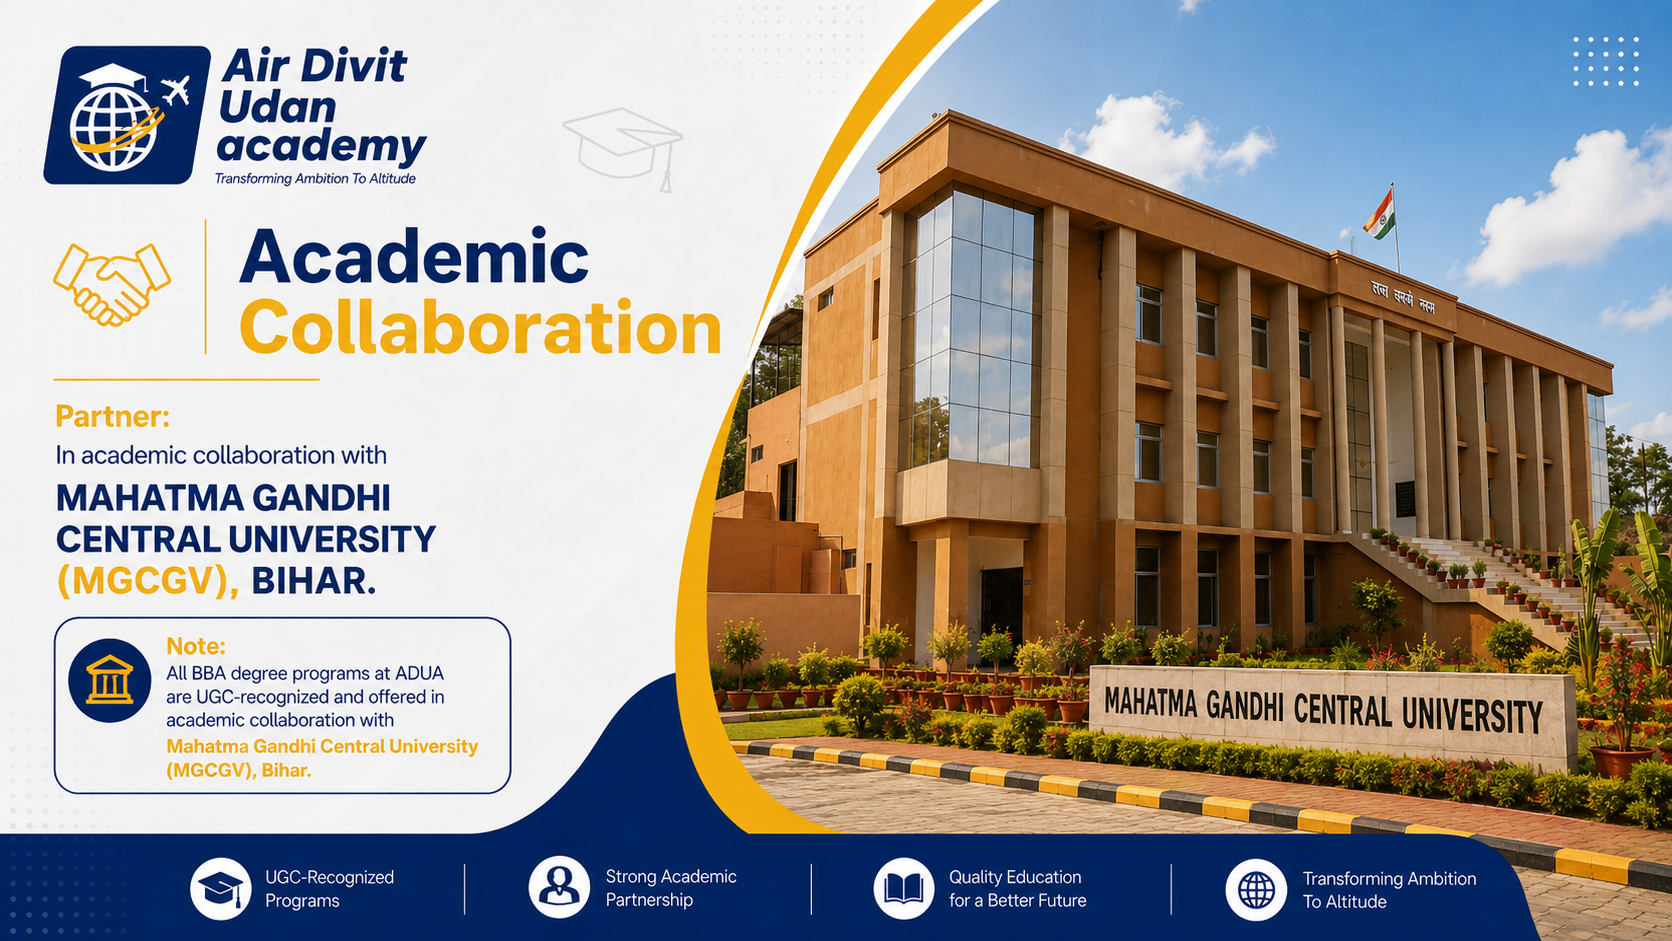
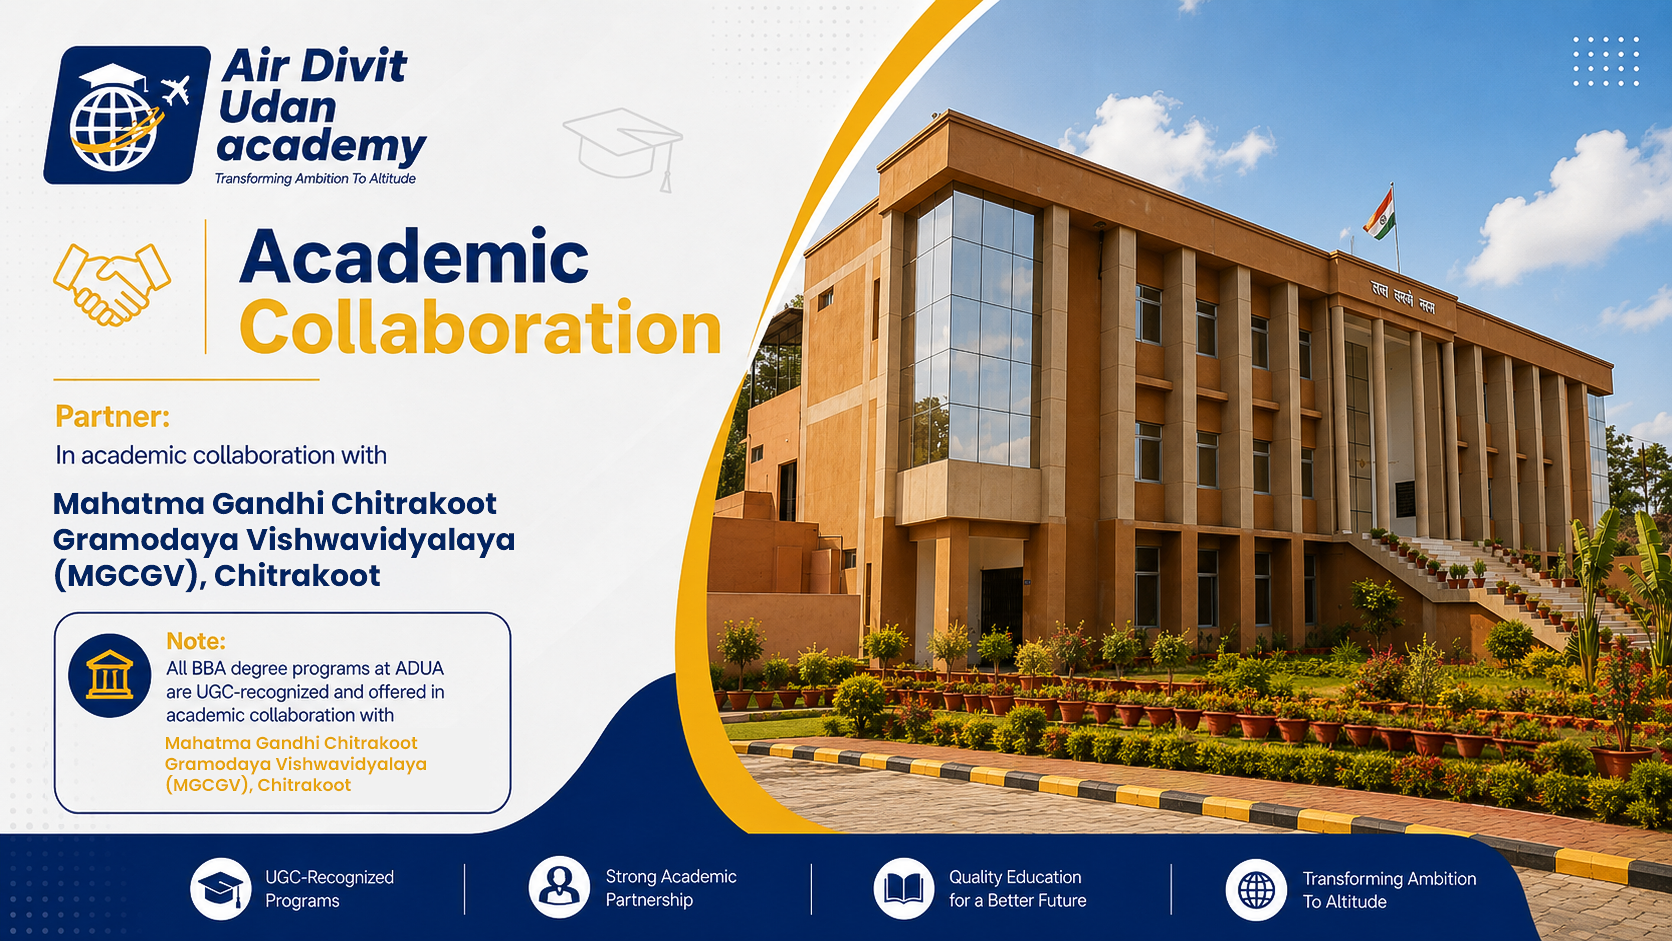
Curriculum updates

Changed region(s): [[0.0311, 0.4931, 0.311, 0.8629], [0.622, 0.678, 0.9641, 0.8321]]

diff --git a/index.html b/index.html
@@ -221,12 +221,12 @@
                 </header>
                 <div class="d-flex flex-row justify-content-between align-items-center gap-4">
                     <div class="curriculum__meta">
-                        <div class="curriculum__chip">
+                        <!-- <div class="curriculum__chip">
                             <div class="curriculum__chip-label">Standard Fee</div>
                             <div class="curriculum__chip-value">₹101,300 <span
                                     style="font-size:12px;font-weight:600;color:var(--color-text-muted)">/ Annual</span>
                             </div>
-                        </div>
+                        </div> -->
                         <div class="curriculum__chip">
                             <div class="curriculum__chip-label">Accreditation</div>
                             <div class="curriculum__chip-value curriculum__chip-value--sm">UGC-Recognized Degrees</div>
@@ -253,7 +253,6 @@
                             <div class="program-card__image-wrap">
                                 <img class="program-card__image" src="./assets/BBA (Airport Management).webp"
                                     alt="BBA Airport Management" />
-                                <span class="program-card__nsqf">NSQF 4 + 4</span>
                             </div>
                             <div class="program-card__body">
                                 <h3 class="program-card__title">BBA (Airport Management)</h3>
@@ -262,10 +261,6 @@
                                 <p class="program-card__roles">Airport Terminal Operations Executive + Airline Ramp
                                     Executive</p>
                                 <div class="program-card__footer">
-                                    <div>
-                                        <p class="program-card__duration-label">Training Duration</p>
-                                        <p class="program-card__duration">540 + 420 Hr.</p>
-                                    </div>
                                     <button class="program-card__info-btn" aria-label="More info">
                                         <i class="bi bi-arrow-right-short"></i>
                                     </button>
@@ -276,7 +271,6 @@
                             <div class="program-card__image-wrap">
                                 <img class="program-card__image" src="./assets/BBA (Aviation Hospitality).webp"
                                     alt="BBA Aviation Hospitality" />
-                                <span class="program-card__nsqf">NSQF 4 + 4</span>
                             </div>
                             <div class="program-card__body">
                                 <h3 class="program-card__title">BBA (Aviation Hospitality)</h3>
@@ -284,10 +278,6 @@
                                 <p class="program-card__label">Key Roles</p>
                                 <p class="program-card__roles">Airline Cabin Crew + Customer Service Executive</p>
                                 <div class="program-card__footer">
-                                    <div>
-                                        <p class="program-card__duration-label">Training Duration</p>
-                                        <p class="program-card__duration">600 + 570 Hr.</p>
-                                    </div>
                                     <button class="program-card__info-btn" aria-label="More info">
                                         <i class="bi bi-arrow-right-short"></i>
                                     </button>
@@ -298,7 +288,6 @@
                             <div class="program-card__image-wrap">
                                 <img class="program-card__image" src="./assets/BBA (Aviation Security Safety).webp"
                                     alt="BBA Aviation Security Safety" />
-                                <span class="program-card__nsqf">NSQF 3 + 4</span>
                             </div>
                             <div class="program-card__body">
                                 <h3 class="program-card__title">BBA (Aviation Security Safety)</h3>
@@ -306,10 +295,6 @@
                                 <p class="program-card__label">Key Roles</p>
                                 <p class="program-card__roles">Airline Security Executive + Airport Safety Crew</p>
                                 <div class="program-card__footer">
-                                    <div>
-                                        <p class="program-card__duration-label">Training Duration</p>
-                                        <p class="program-card__duration">375 + 465 Hr.</p>
-                                    </div>
                                     <button class="program-card__info-btn" aria-label="More info">
                                         <i class="bi bi-arrow-right-short"></i>
                                     </button>
@@ -320,7 +305,6 @@
                             <div class="program-card__image-wrap">
                                 <img class="program-card__image" src="./assets/image 2765.webp"
                                     alt="BBA Ground Support Equipment" />
-                                <span class="program-card__nsqf">NSQF 4 + 4</span>
                             </div>
                             <div class="program-card__body">
                                 <h3 class="program-card__title">BBA (Ground Support Equipment)</h3>
@@ -328,10 +312,6 @@
                                 <p class="program-card__label">Key Roles</p>
                                 <p class="program-card__roles">GSE Operator + GSE Mechanic</p>
                                 <div class="program-card__footer">
-                                    <div>
-                                        <p class="program-card__duration-label">Training Duration</p>
-                                        <p class="program-card__duration">420 + 420 Hr.</p>
-                                    </div>
                                     <button class="program-card__info-btn" aria-label="More info">
                                         <i class="bi bi-arrow-right-short"></i>
                                     </button>
@@ -342,7 +322,6 @@
                             <div class="program-card__image-wrap">
                                 <img class="program-card__image" src="./assets/Gradient.webp"
                                     alt="BBA Ground Support Equipment" />
-                                <span class="program-card__nsqf">NSQF 4 + 4</span>
                             </div>
                             <div class="program-card__body">
                                 <h3 class="program-card__title">BBA (Drone
@@ -352,10 +331,6 @@
                                 <p class="program-card__roles">Drone Operator + Entrepreneurship
                                     & Aerial Services</p>
                                 <div class="program-card__footer">
-                                    <div>
-                                        <p class="program-card__duration-label">Training Duration</p>
-                                        <p class="program-card__duration">420 + 300 Hr.</p>
-                                    </div>
                                     <button class="program-card__info-btn" aria-label="More info">
                                         <i class="bi bi-arrow-right-short"></i>
                                     </button>
@@ -366,7 +341,6 @@
                             <div class="program-card__image-wrap">
                                 <img class="program-card__image" src="./assets/Gradient (1).webp"
                                     alt="BBA Ground Support Equipment" />
-                                <span class="program-card__nsqf">NSQF 4 + 4</span>
                             </div>
                             <div class="program-card__body">
                                 <h3 class="program-card__title">BBA (Drone AI Robotics)
@@ -376,10 +350,6 @@
                                 <p class="program-card__roles">Airport Terminal Operations
                                     Executive + Airline Ramp Executive</p>
                                 <div class="program-card__footer">
-                                    <div>
-                                        <p class="program-card__duration-label">Training Duration</p>
-                                        <p class="program-card__duration">420 + 420 Hr.</p>
-                                    </div>
                                     <button class="program-card__info-btn" aria-label="More info">
                                         <i class="bi bi-arrow-right-short"></i>
                                     </button>
@@ -390,7 +360,6 @@
                             <div class="program-card__image-wrap">
                                 <img class="program-card__image" src="./assets/Gradient (2).webp"
                                     alt="BBA Ground Support Equipment" />
-                                <span class="program-card__nsqf">NSQF 4 + 4</span>
                             </div>
                             <div class="program-card__body">
                                 <h3 class="program-card__title">BBA (Drone Technologies)
@@ -401,10 +370,10 @@
                                 <p class="program-card__roles">Drone Operator + Maintenance & Troubleshooting
                                 </p>
                                 <div class="program-card__footer">
-                                    <div>
+                                    <!-- <div>
                                         <p class="program-card__duration-label">Training Duration</p>
                                         <p class="program-card__duration">420 + 420 Hr.</p>
-                                    </div>
+                                    </div> -->
                                     <button class="program-card__info-btn" aria-label="More info">
                                         <i class="bi bi-arrow-right-short"></i>
                                     </button>
@@ -492,7 +461,7 @@
                     <img src="./assets/BG Desktop.png" alt="Aviation University Campus" width="1280" height="720" />
                 </div>
                 <div class="video-banner__frame d-md-none d-block">
-                    <img src="./assets/BG-Mobile.png" alt="Aviation University Campus" width="1280" height="720" />
+                    <img src="./assets/BG Mobile.png" alt="Aviation University Campus" width="1280" height="720" />
                 </div>
             </div>
         </section>

diff --git a/css/style.css b/css/style.css
@@ -920,7 +920,8 @@ button:disabled,
     padding-top: 16px;
     display: flex;
     align-items: center;
-    justify-content: space-between;
+    /* justify-content: space-between; */
+    justify-content: end;
     gap: 12px;
 }
 